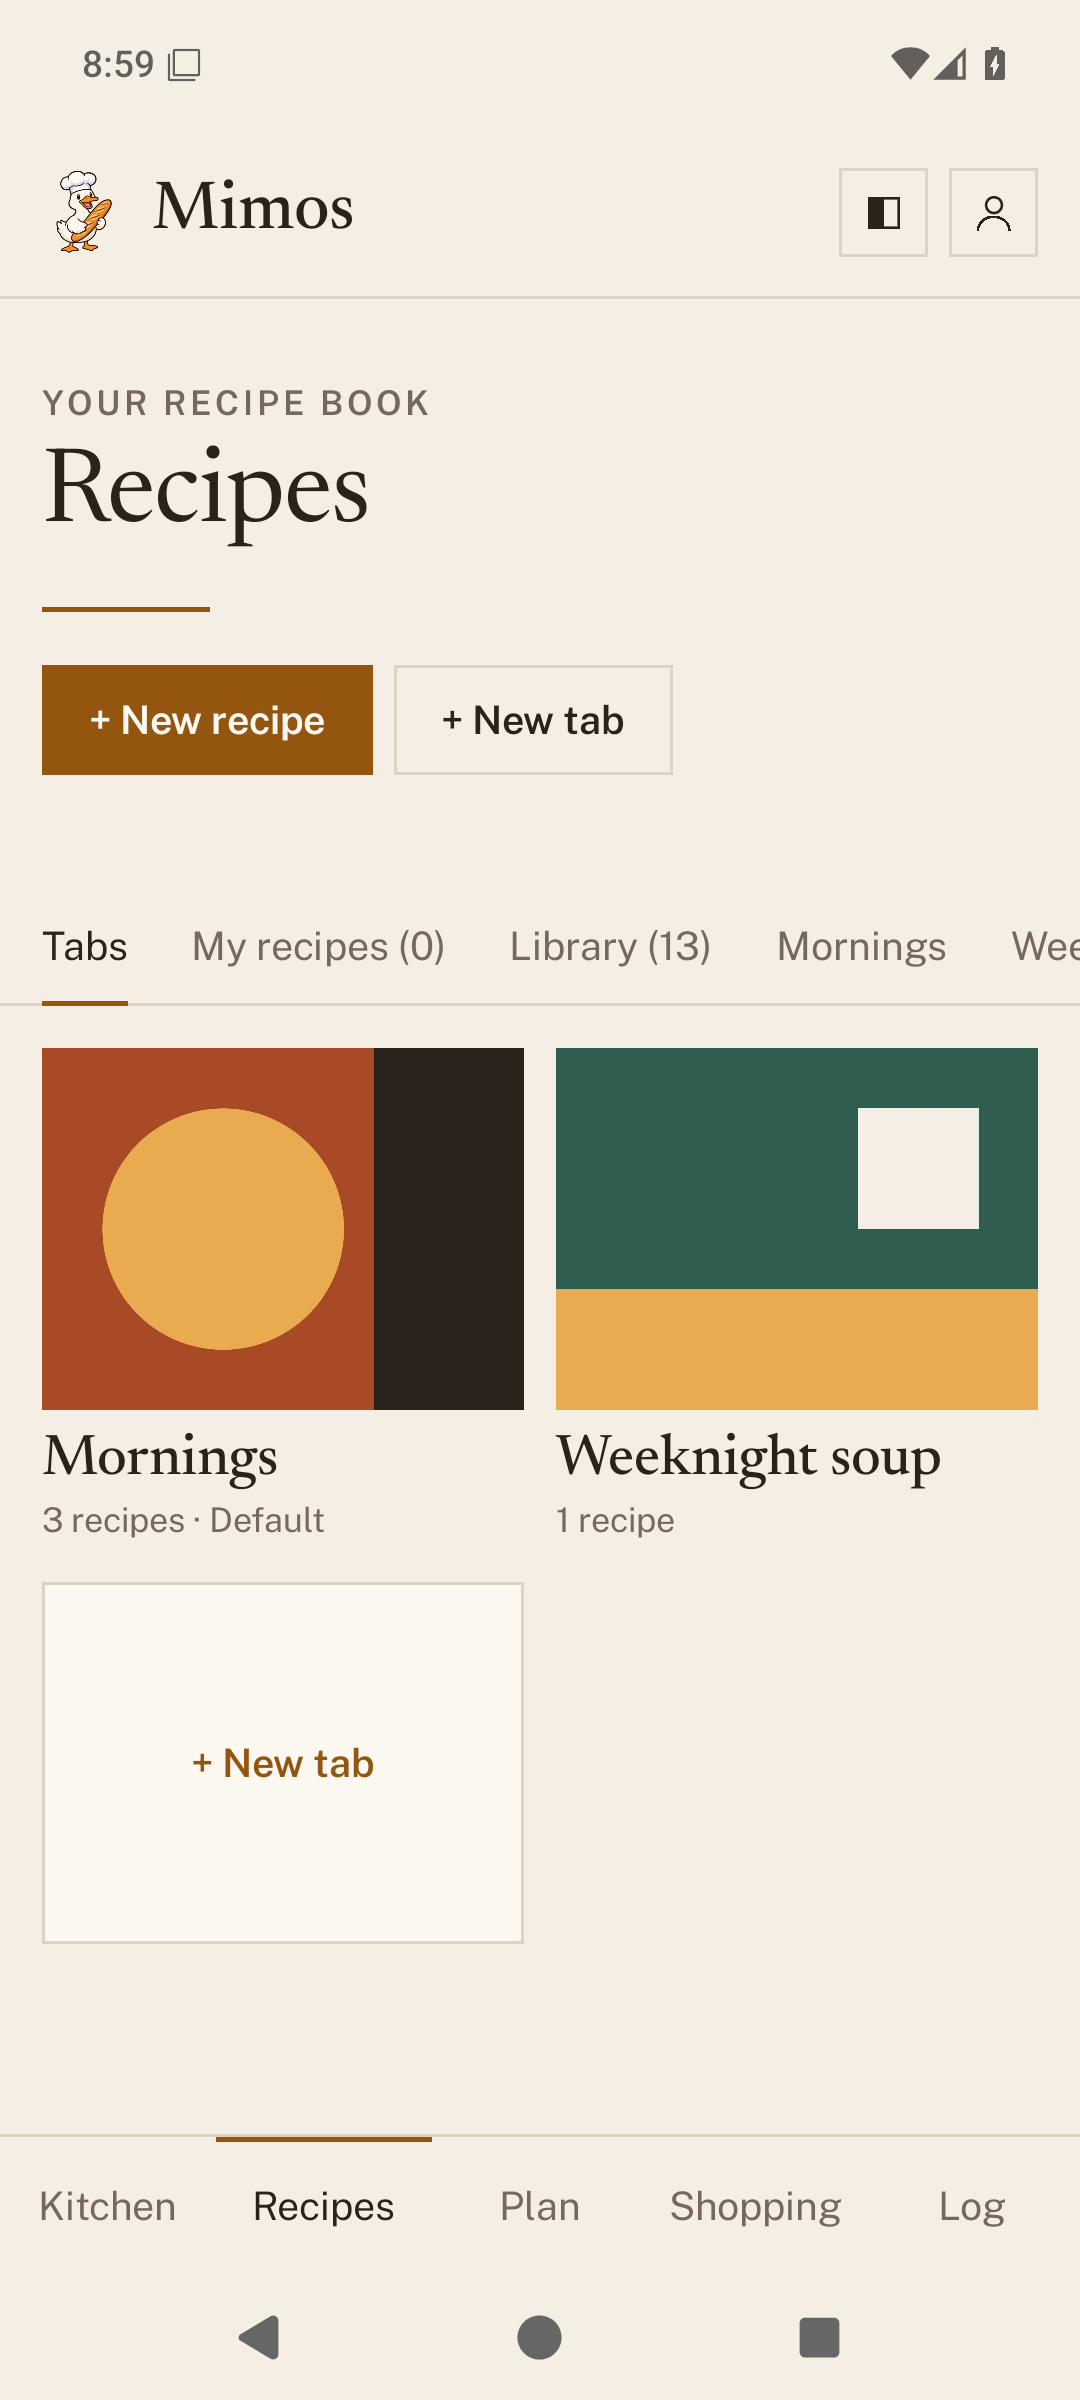
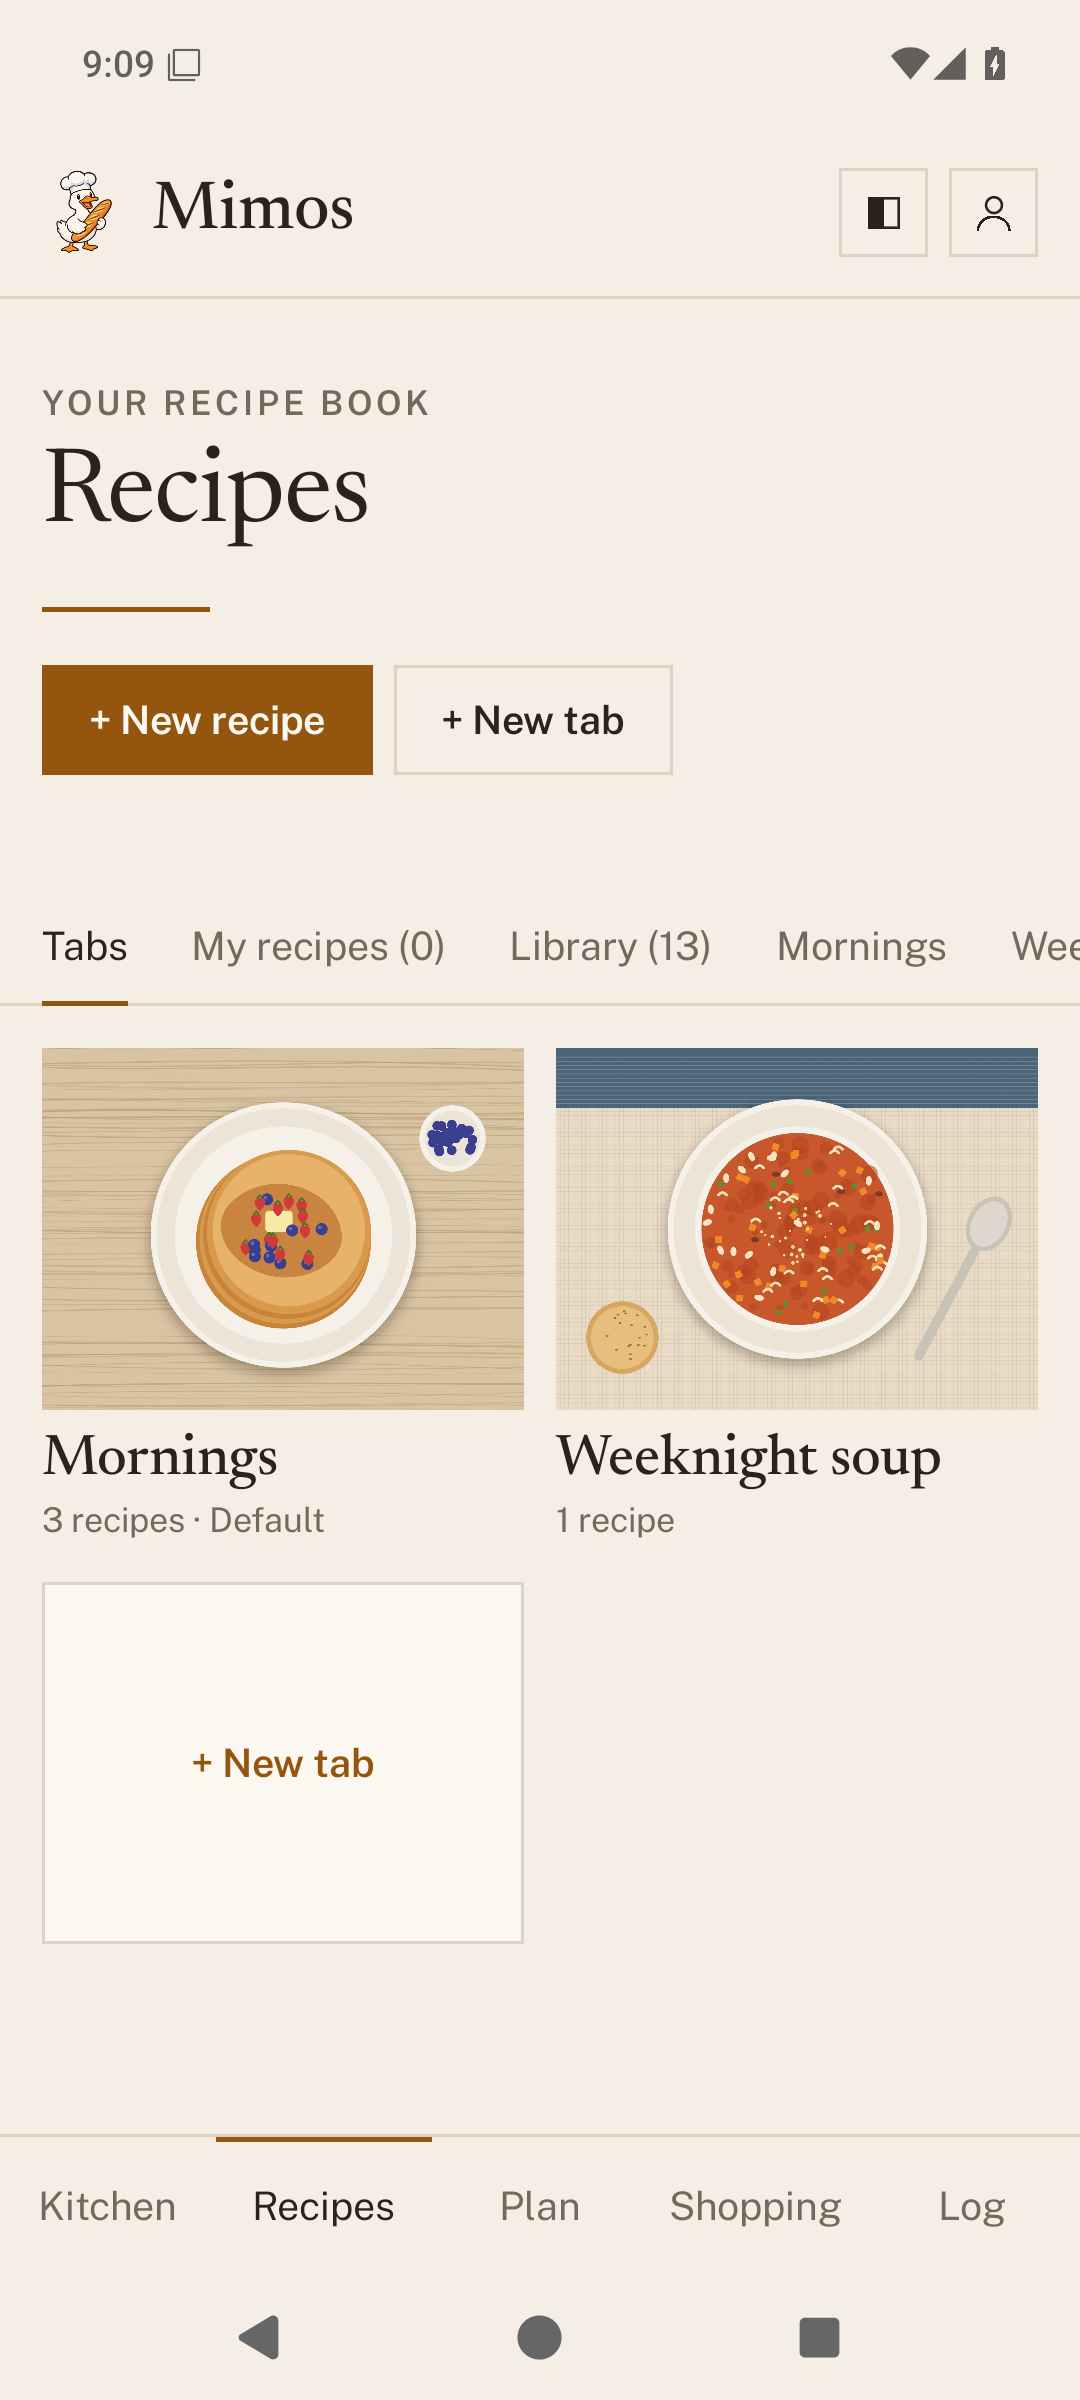
docs(guide): show recipe tabs in the Android app

Changed region(s): [[0.0306, 0.4375, 0.9778, 0.5938]]

diff --git a/docs/guide/recipes.md b/docs/guide/recipes.md
@@ -94,6 +94,15 @@ recipes** again.
 
 Tabs travel with your recipes in [your export](your-data.md).
 
+### Tabs in the Android app
+
+Tabs work the same way in the app. Tap **+ New tab** beside **+ New
+recipe**, give the tab a name, and choose a cover from your photos or take
+one with the camera. The tab bar scrolls sideways to show every tab after
+**My recipes** and **Library**.
+
+![The app's Recipes tab, showing the gallery of two tabs with covers](../assets/screenshots/android-recipe-tabs.png)
+
 ## Cooking from a recipe
 
 Open any recipe to cook from it. The ingredients sit on the left and the
